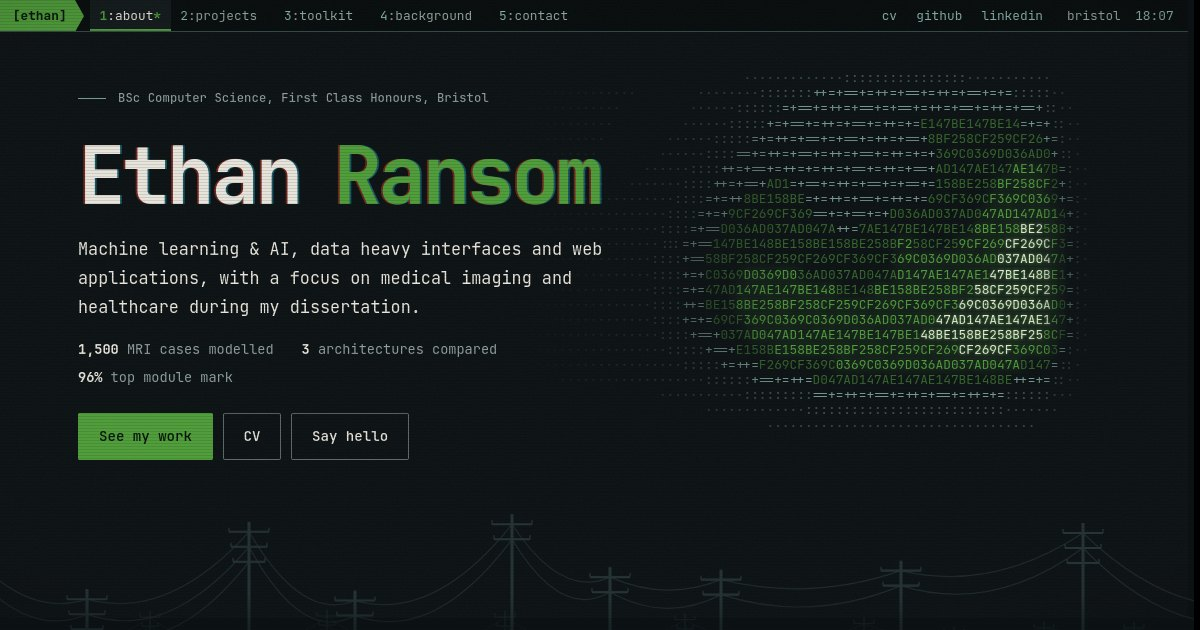
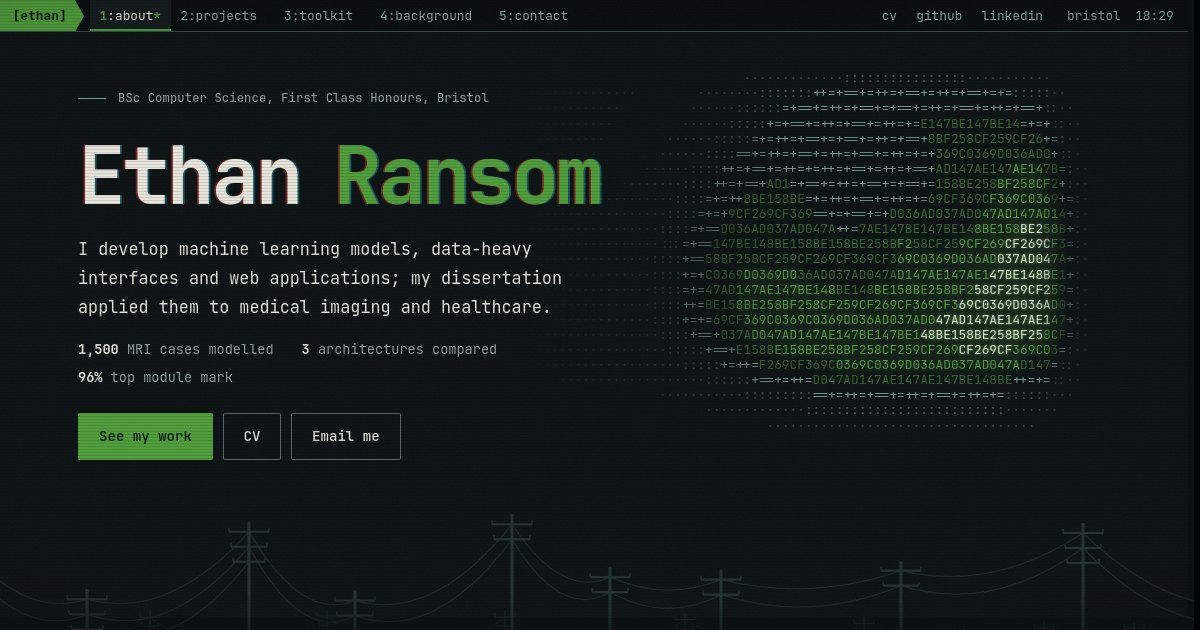
Refined phrasing in the tagline, about section and contact line and retook the preview image to match

Changed region(s): [[0.0617, 0.3619, 0.4933, 0.4524], [0.0617, 0.4825, 0.4625, 0.5127], [0.2775, 0.6635, 0.3392, 0.7238]]

diff --git a/config.js b/config.js
@@ -5,7 +5,7 @@ window.SITE = {
 
   // One sentence under the name: what you do, not who you are.
   tagline:
-    "Machine learning & AI, data heavy interfaces and web applications, with a focus on medical imaging and healthcare during my dissertation.",
+    "I develop machine learning models, data-heavy interfaces and web applications; my dissertation applied them to medical imaging and healthcare.",
   // Up to three figures under the tagline. Leave empty to hide the row.
   heroStats: [
     { value: "1,500", label: "MRI cases modelled" },
@@ -34,8 +34,8 @@ window.SITE = {
   // ---- About ---------------------------------------------------------------
   about: {
     paragraphs: [
-      "I'm a First Class Computer Science graduate from Swansea University, based near Bristol. I like solving problems where the difficulty lies in the interdisciplinary nature of a problem, exponentially increasing how much knowledge you can gain throughout the process.",
-      "I exercised this pursuit through my dissertation, combining medicine and computer science: training a Vision Transformer and a nested CNN on the PI-CAI dataset which contains 1,500 prostate MRI cases. I then built a dashboard to visualise the model outcomes and compare each model's decision. This enables a clinician to inspect where the model and ground truth disagree. Before completing my dissertation I built a music review platform in Laravel, which became the module I attained the highest marks for in my bachelor's degree.",
+      "I'm a First Class Computer Science graduate from Swansea University, based near Bristol. I like solving problems where the difficulty lies in their interdisciplinary nature, significantly increasing how much knowledge you can gain throughout the process.",
+      "I exercised this pursuit through my dissertation, combining medicine and computer science: training a Vision Transformer and a nested CNN on the PI-CAI dataset, which contains 1,500 prostate MRI cases. I then built a dashboard to visualise the model outcomes and compare each model's decision. This enables a clinician to inspect where the model and ground truth disagree. Before completing my dissertation I built a music review platform in Laravel, for the module in which I attained the highest mark of my bachelor's degree.",
     ],
   },
 
@@ -318,6 +318,8 @@ window.SITE = {
       "Building side projects to strengthen my portfolio",
     ],
     nextUp: {
+      // The small heading above the card. Leave it out for "Next up:".
+      heading: "Side project:",
       title: "Building a miniature version of ChatGPT in Python",
       description:
         "A small-scale chatbot that uses a pre-trained language model to generate responses to user input, with a focus on understanding the underlying architecture and fine-tuning techniques.",
@@ -344,7 +346,7 @@ window.SITE = {
   // ---- Contact -------------------------------------------------------------
   contact: {
     blurb:
-      "I'm currently searching & applying for graduate software, data analytics and ML engineering roles.",
+      "I'm currently applying for graduate software, data analytics and ML engineering roles.",
     email: "ethanransom271@gmail.com",
     // The text on the email button, in the masthead and on the contact page.
     emailLabel: "Email me",

diff --git a/main.js b/main.js
@@ -3243,7 +3243,7 @@
     if (n.nextUp && n.nextUp.title) {
       byId("now-next").classList.add("reveal");
       mount("now-next", [
-        el("h3", { text: "Next up:" }),
+        el("h3", { text: n.nextUp.heading || "Next up:" }),
         el("p", { class: "next-title" }, [
           el("strong", { text: n.nextUp.title }),
           n.nextUp.status
